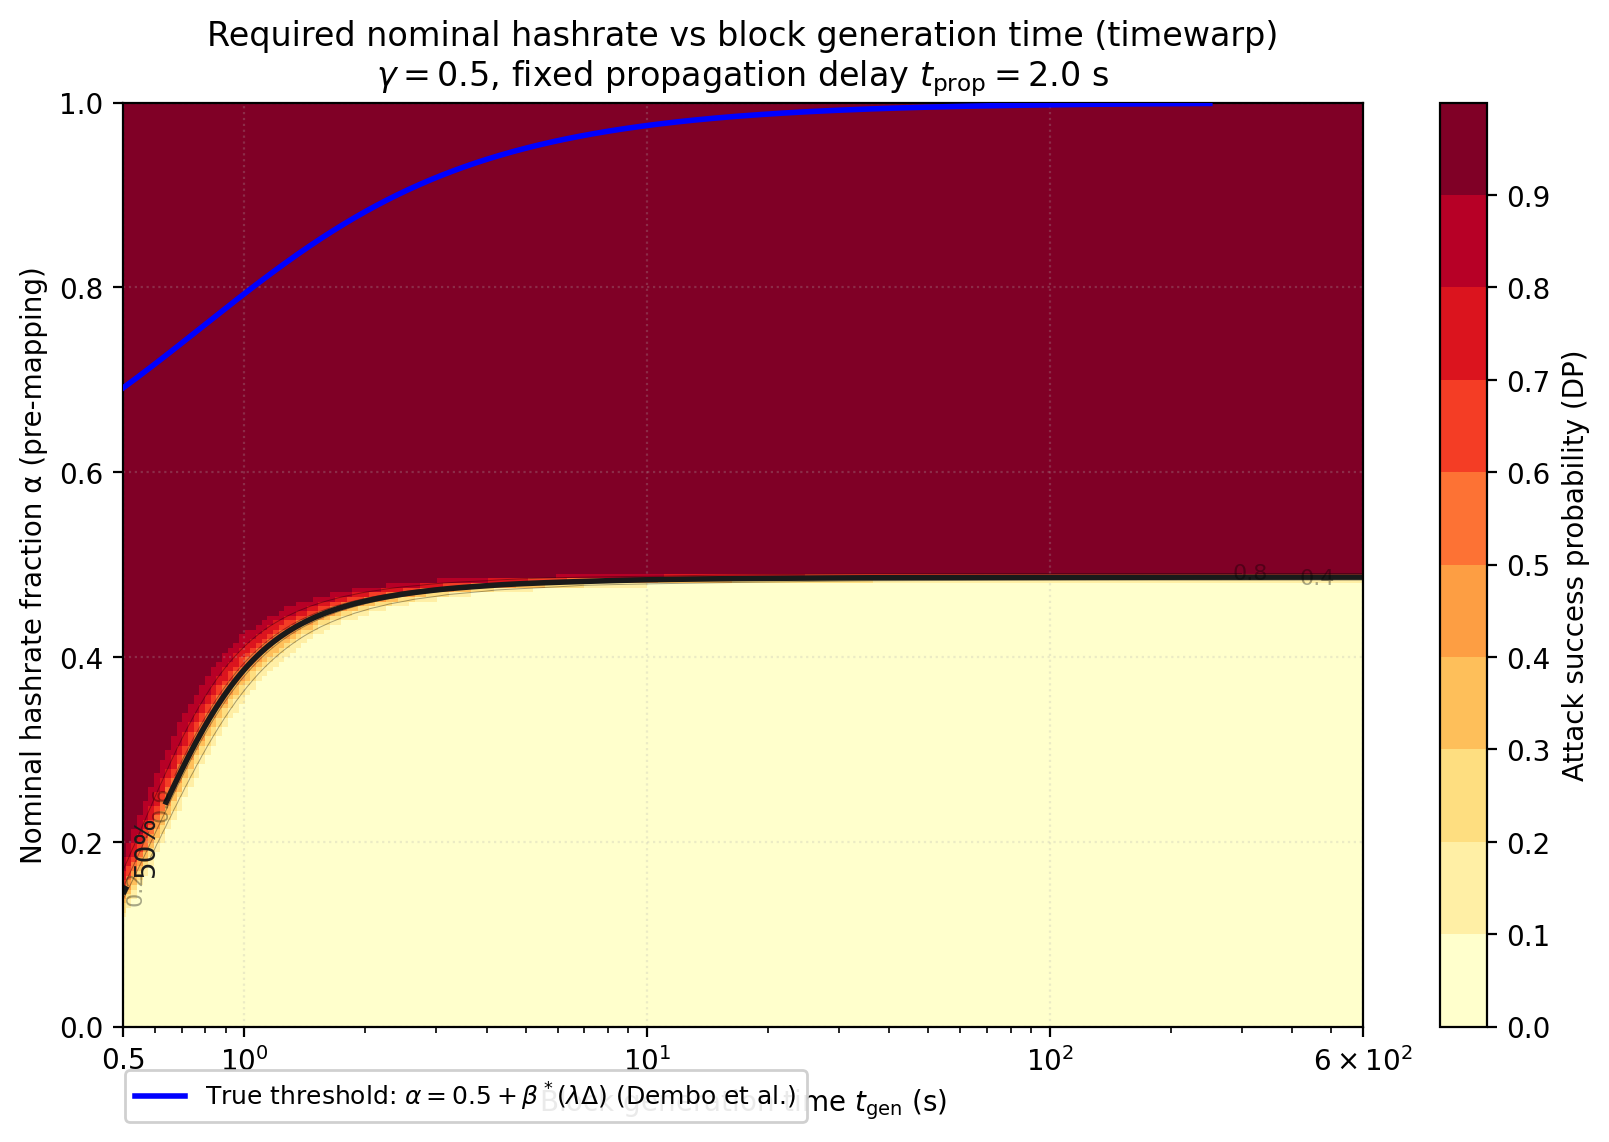
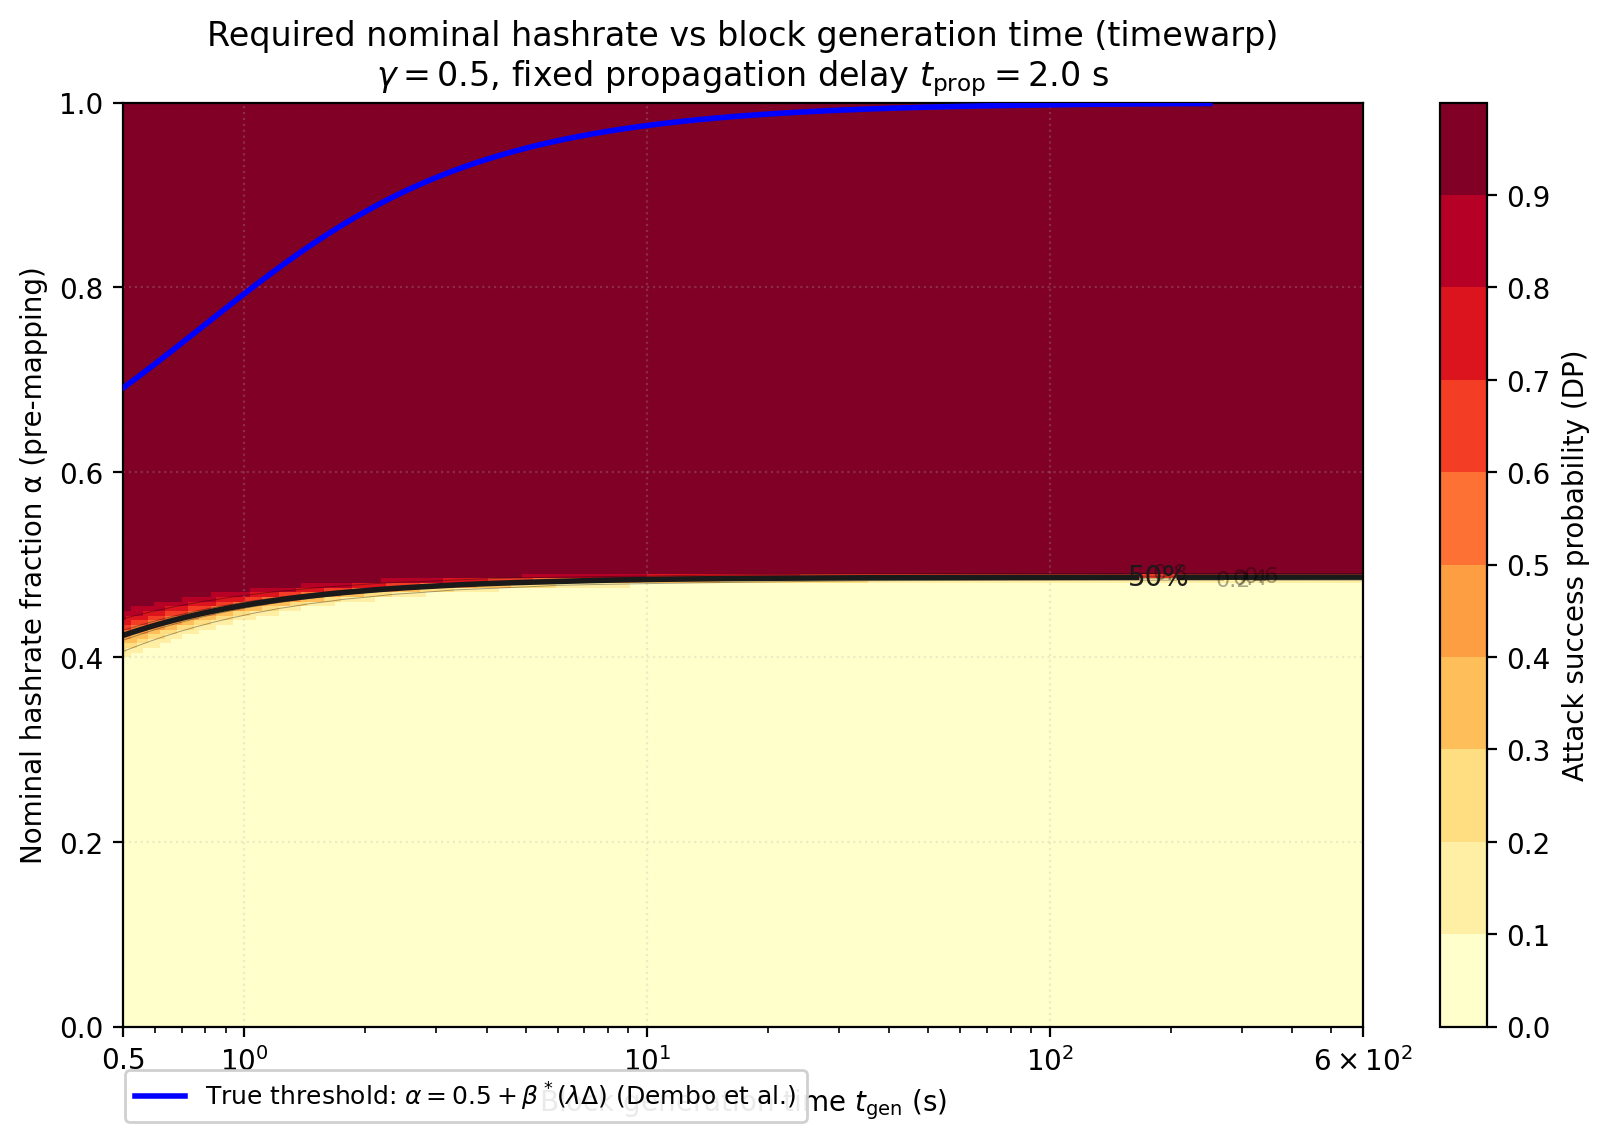
wip

Changed region(s): [[0.0622, 0.4904, 0.404, 0.7968], [0.6837, 0.4904, 0.7769, 0.521]]

diff --git a/experiments/timewarp_theory_analysis/scripts/plot_required_hashrate_sm.py b/experiments/timewarp_theory_analysis/scripts/plot_required_hashrate_sm.py
@@ -111,7 +111,8 @@ def plot_attack_success_heatmap_by_block_generation_time(
     Z = np.zeros((len(alpha_nom_grid), len(t_gen_grid)))
 
     for j, t_gen in enumerate(t_gen_grid):
-        P_orphan_n = 1.0 - np.exp(-T_PROP / t_gen)
+        ratio = T_PROP / t_gen
+        P_orphan_n = ratio / (1.0 + ratio)
         denom = alpha_eff_sm + (1.0 - alpha_eff_sm) * (1.0 - P_orphan_n)
         alpha_eff = np.divide(
             alpha_eff_sm,
